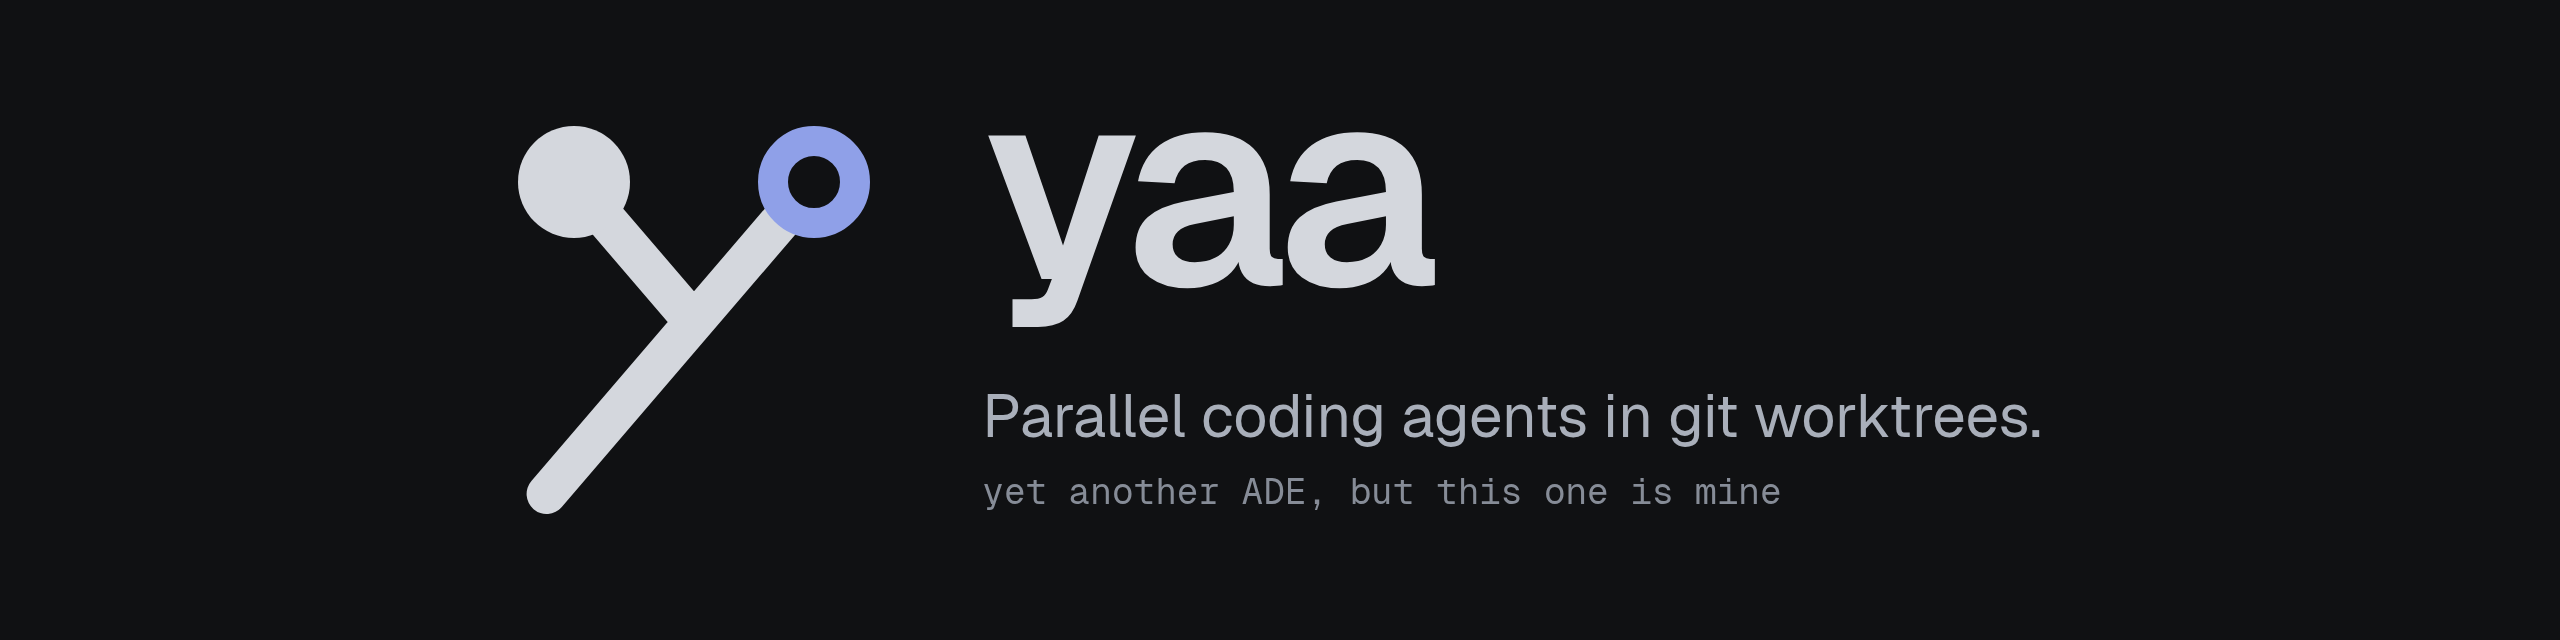
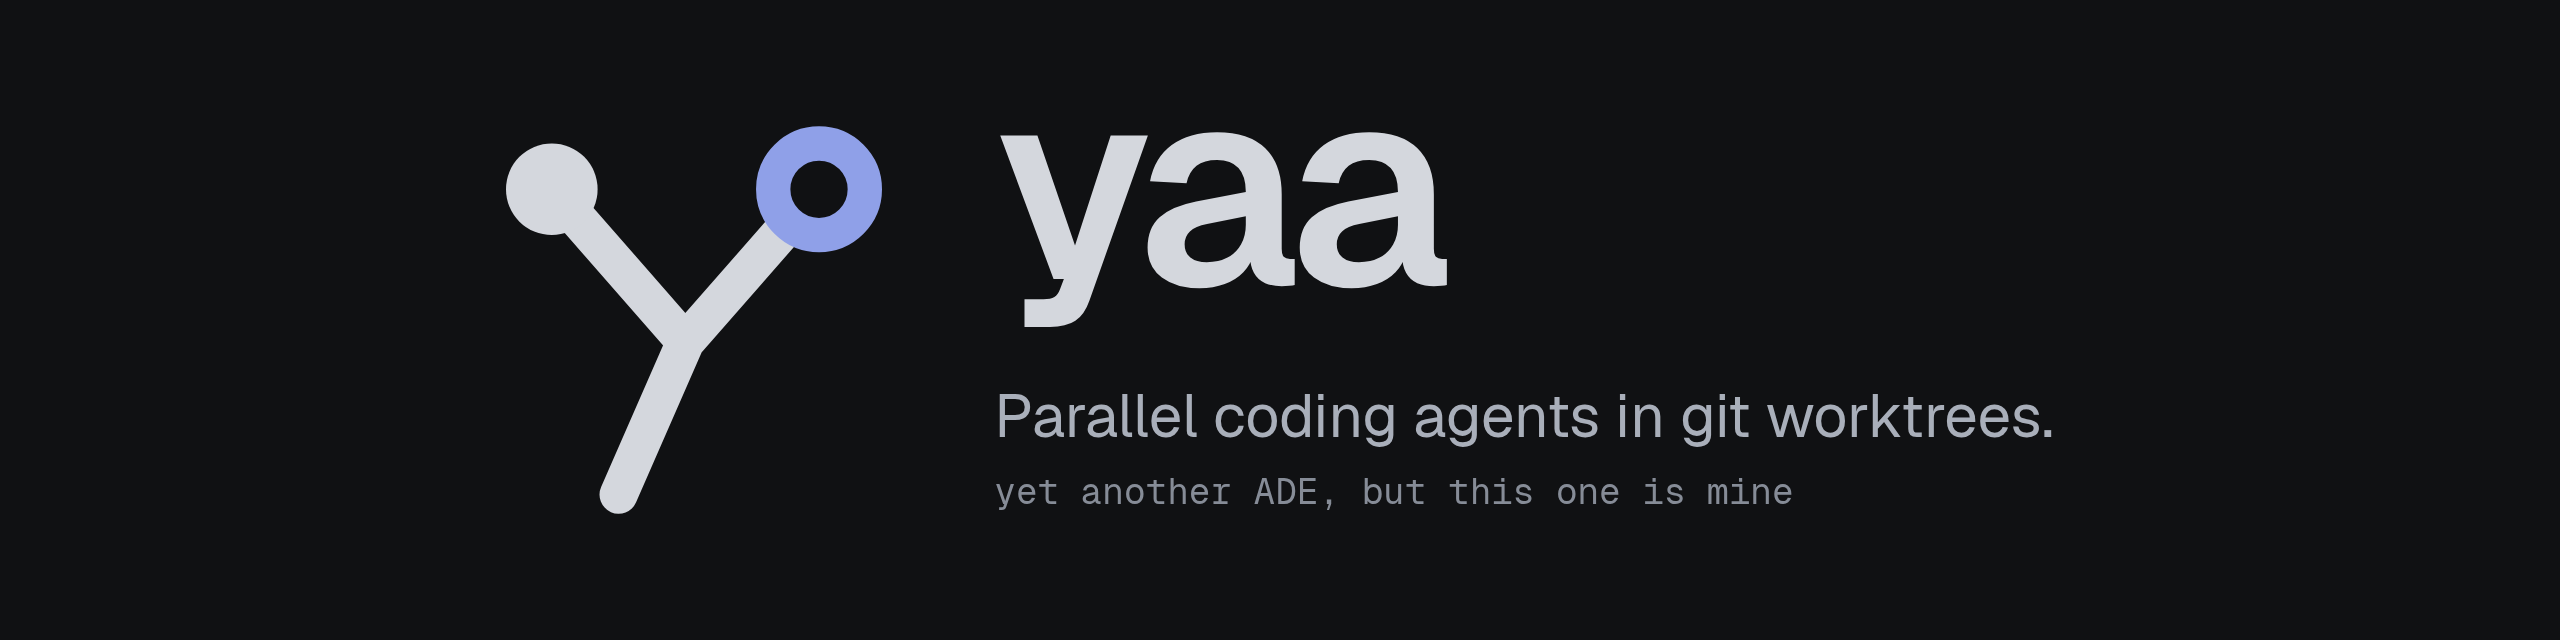
docs: restore the branch-shaped mark, keep the ring attached
Back to the original geometry: smaller filled node, larger ring, stem bending down from the junction. The ring's line now starts on the ring instead of under a filled ring.

diff --git a/docs/design/mockups/Mark.dc.html b/docs/design/mockups/Mark.dc.html
@@ -12,7 +12,7 @@
 body{margin:0}
 </style>
 </helmet>
-<span style="display:inline-flex;width:{{px}}px;height:{{px}}px"><svg viewBox="0 0 24 24" width="{{px}}" height="{{px}}" fill="none" role="img" aria-label="yaa mark"><path d="M6.00 5.00L12.00 12.00M16.44 6.82L4.63 20.60" stroke="{{fg}}" stroke-width="2" stroke-linecap="round"/><circle cx="6" cy="5" r="2.8" fill="{{fg}}"/><circle cx="18" cy="5" r="2.05" stroke="{{accent}}" stroke-width="1.5"/></svg></span>
+<span style="display:inline-flex;width:{{px}}px;height:{{px}}px"><svg viewBox="0 0 24 24" width="{{px}}" height="{{px}}" fill="none" role="img" aria-label="yaa mark"><path d="M5 5L12 13L8.5 21M17.29 6.96L12 13" stroke="{{fg}}" stroke-width="2" stroke-linecap="round" stroke-linejoin="round"/><circle cx="5" cy="5" r="2.4" fill="{{fg}}"/><circle cx="19" cy="5" r="2.4" stroke="{{accent}}" stroke-width="1.8"/></svg></span>
 </x-dc>
 <script type="text/x-dc" data-dc-script data-props='{"size":{"editor":"int","default":24},"color":{"editor":"color","default":"#d4d7dd"},"accent":{"editor":"color","default":"#8fa0e8"},"ground":{"editor":"color","default":"#101113"},"$preview":{"width":24,"height":24}}'>
 class Component extends DCLogic {

diff --git a/docs/design/brand/banner.html b/docs/design/brand/banner.html
@@ -9,6 +9,6 @@ html,body{margin:0;background:#101113}
 .t{font-size:30px;color:#a9afba;line-height:1}
 .s{font-family:'Geist Mono',monospace;font-size:18px;color:#868c97;line-height:1;margin-bottom:2px}
 </style></head><body><div class="b">
-<svg viewBox="3.2 2.2 17.6 19.4" width="176" height="194" fill="none" role="img" aria-label="yaa"><path d="M6.00 5.00L12.00 12.00M16.44 6.82L4.63 20.60" stroke="#d4d7dd" stroke-width="2" stroke-linecap="round"/><circle cx="6" cy="5" r="2.8" fill="#d4d7dd"/><circle cx="18" cy="5" r="2.05" stroke="#8fa0e8" stroke-width="1.5"/></svg>
+<svg role="img" aria-label="yaa" viewBox="2.6 1.7 19.7 20.3" width="188" height="194" fill="none"><path d="M5 5L12 13L8.5 21M17.29 6.96L12 13" stroke="#d4d7dd" stroke-width="2" stroke-linecap="round" stroke-linejoin="round"/><circle cx="5" cy="5" r="2.4" fill="#d4d7dd"/><circle cx="19" cy="5" r="2.4" stroke="#8fa0e8" stroke-width="1.8"/></svg>
 <div class="txt"><div class="w">yaa</div><div><div class="t">Parallel coding agents in git worktrees.</div><div class="s" style="margin-top:14px">yet another ADE, but this one is mine</div></div></div>
 </div></body></html>

diff --git a/docs/design/ui.md b/docs/design/ui.md
@@ -30,4 +30,4 @@ Drawn as a **branch graph**: main is the trunk, each worktree a node on a branch
 Idle (muted), Running (blue), Needs attention (amber), Error (red), Done (green). State is derived from events, never stored by hand.
 
 ## Brand
-The mark is a lowercase **y** drawn as a git merge: a filled node (main) and an open ring (a worktree), the same size, joining into the stem. The ring's line runs on as the stem, like the long stroke of a y, and starts on the ring instead of under it. Source: `docs/design/brand/mark.svg`. Wordmark "yaa" in Geist 600. Pronounced "ja". Name meaning: yet another ADE, but this one is mine.
+The mark is a lowercase **y** drawn as a git merge: a small filled node (main) and a larger open ring (a worktree), each on a branch line, joining at a point from which the stem bends down to the left. The ring's line starts on the ring instead of under it, so the ring stays open. Source: `docs/design/brand/mark.svg`. Wordmark "yaa" in Geist 600. Pronounced "ja". Name meaning: yet another ADE, but this one is mine.
